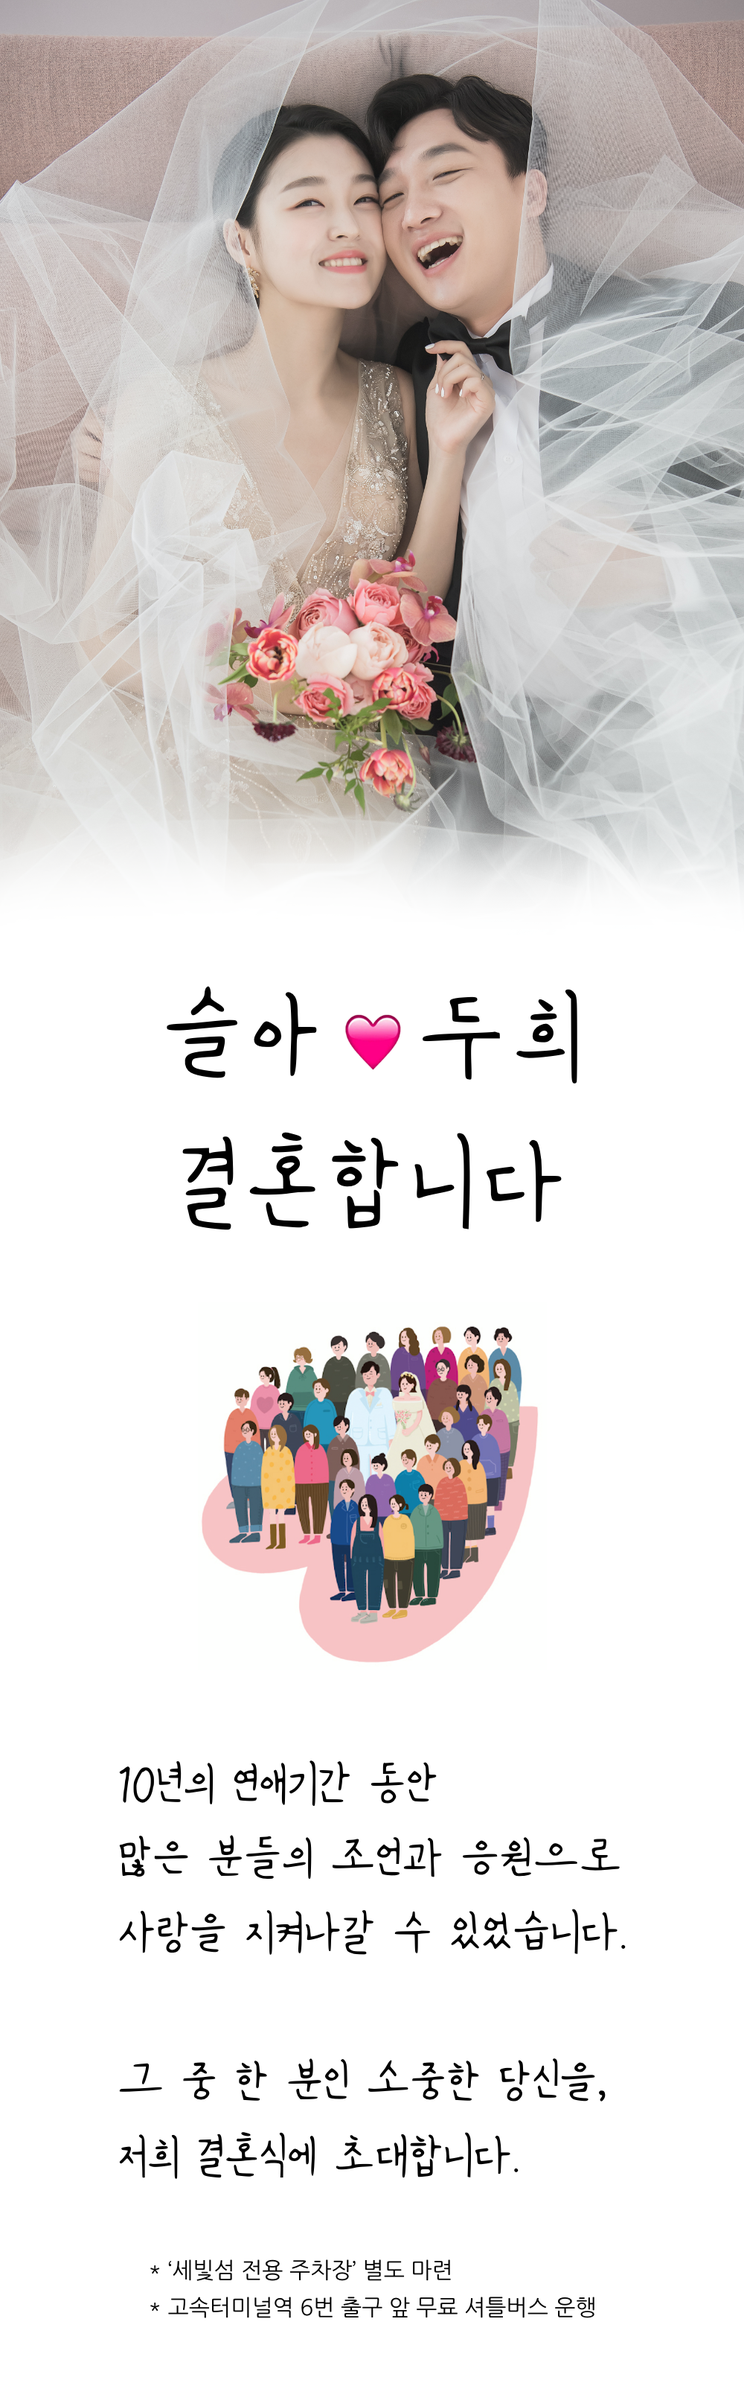
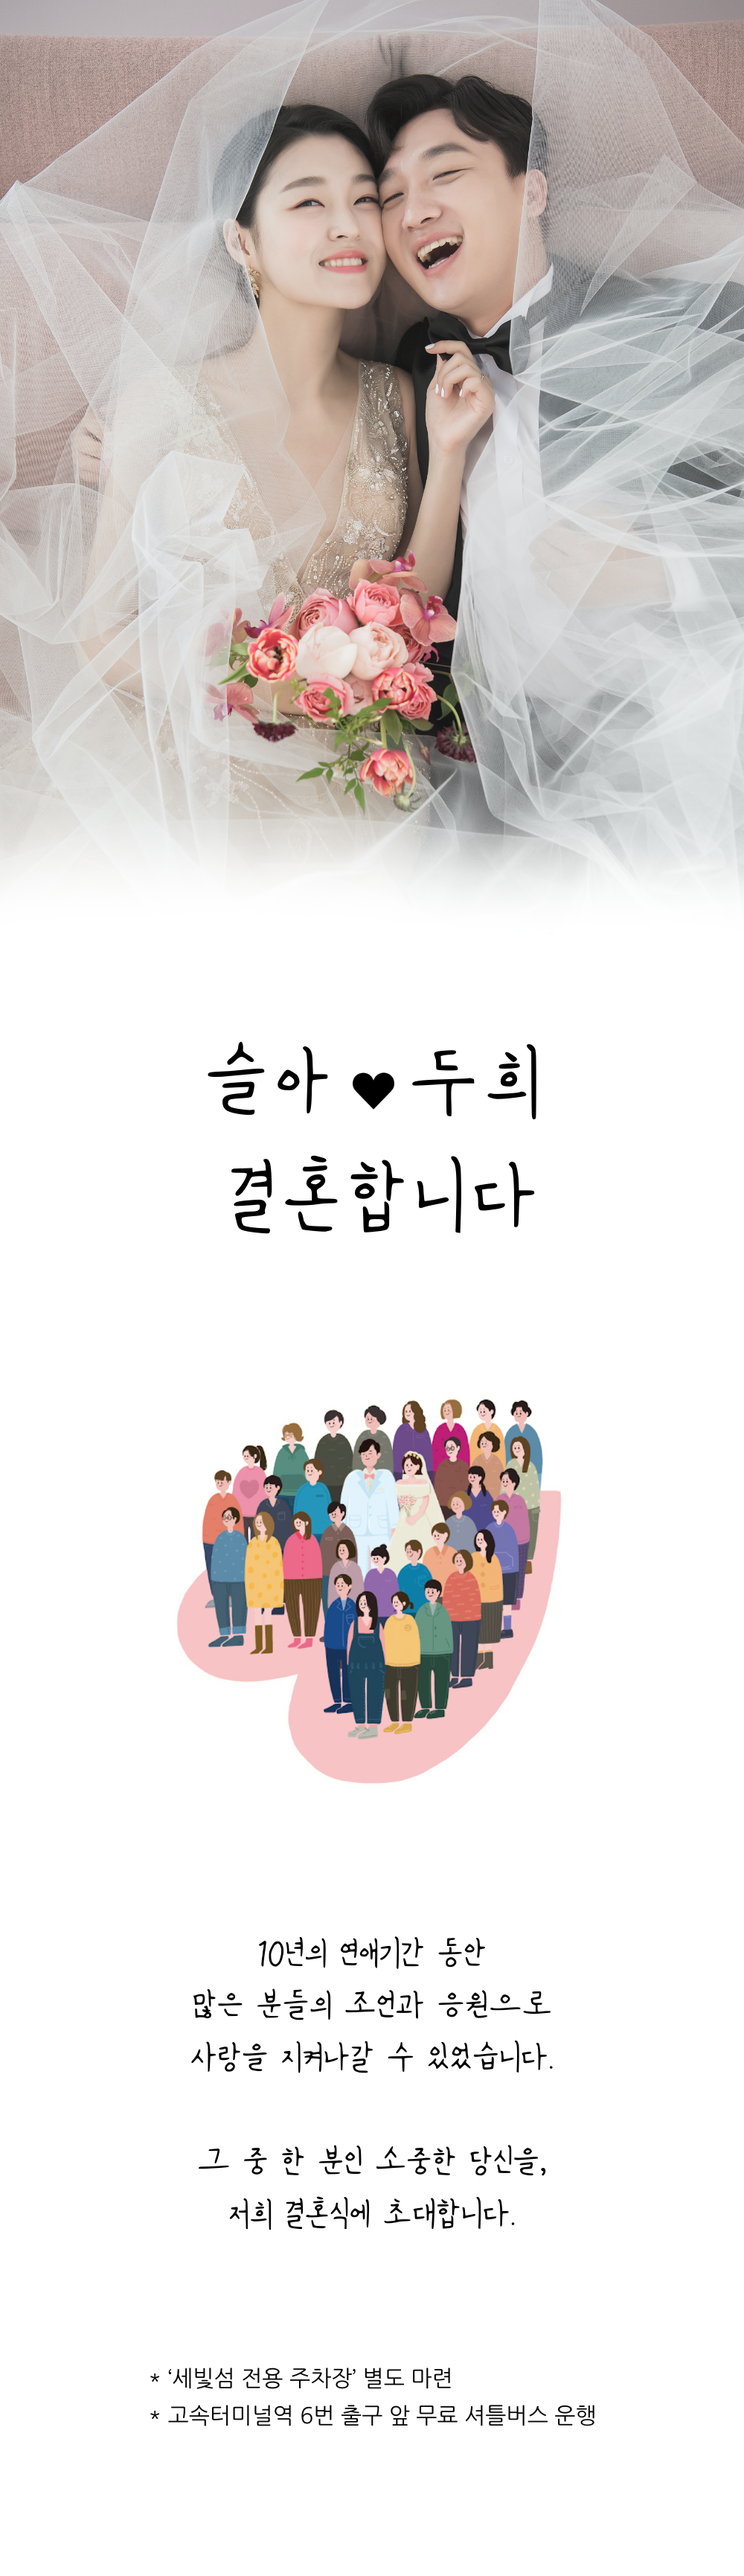
add map, kakaolink

diff --git a/index.html b/index.html
@@ -6,14 +6,14 @@
   <meta charset="utf-8">
   <meta name="viewport" content="width=device-width, initial-scale=1, shrink-to-fit=no">
   <meta name="description" content="2020년 9월 26일 - 세빛섬 플로팅 아일랜드">
-  <meta name="image" content="img/header-bg"/>
+  <meta name="image" content="img/kakaolink.jpg"/>
   <meta name="author" content="">
 
   <title>두희 ❤ 슬아</title>
 
   <meta property="og:title" content="두희♡슬아 결혼합니다">
   <meta property="og:description" content="2020년 9월 26일 - 세빛섬 플로팅 아일랜드">
-  <meta property="og:image" content="img/header-bg"/>
+  <meta property="og:image" content="img/kakaolink.jpg"/>
 
   <!-- Bootstrap core CSS -->
   <link href="vendor/bootstrap/css/bootstrap.min.css" rel="stylesheet">
@@ -208,6 +208,40 @@
             <p class="text-muted">2020</p>
           </div>
         </div>
+      </div>
+    </div>
+  </section>
+
+  <section class="page-section" id="portfolio">
+    <div class="container">
+      <div class="row">
+        <div class="col-lg-12 text-center">
+          <h2 class="section-heading text-uppercase">오시는 길</h2>
+          <h3 class="section-subheading text-muted"></h3>
+        </div>
+      </div>
+      <div class="containerDoo">
+        <img class="img-fluid" src="img/map.png" alt="">
+      </div>
+      <div class="paddingDoo">
+        <p><br><b>자가용 </b><br>
+          - 반포대교가 아닌 꼭 잠수교를 이용하셔야 진입이 가능합니다.<br>
+          - '세빛섬 전용 주차장'이 별도 마련되어 있습니다.<br>
+          <br>
+
+          <b>버  스</b> <br>
+          - 반포대교남단 하차 (반포한강시민공원 입구) 143, 401, 406<br>
+          - 반포한강공원 하차 (잠수교 세빛섬 입구) 405, 740<br>
+          <br>
+
+          <b>지하철</b><br>
+          - 3/7/9호선 고속터미널역 6번 출구 앞 무료 셔틀버스 운행<br>
+          - 도보 이동 시 15분 소요<br>
+          <br>
+
+          <b>서울시 서초구 올림픽대로 2085-14 (반포동 650번지) <br>
+          T 02) 537-2440<br></b>
+        </p>
       </div>
     </div>
   </section>
@@ -494,18 +528,17 @@
   </section> -->
 
   <!-- Footer -->
-  <footer class="footer">
+  <footer class="bg-light footer">
     <div class="container">
       <div class="row align-items-center">
         <div class="col-md-4">
-          <span class="copyright">Copyright &copy; Your Website 2019</span>
+          <span class="copyright"><b>카카오톡으로 청첩장 공유</b></span>
         </div>
 
         <div class="container">
-          <div class="row">
+          <div class="row" style="display:block; margin:auto;">
               <a id="kakao-link-btn" href="javascript:;">
-                  <img src="//developers.kakao.com/assets/img/about/logos/kakaolink/kakaolink_btn_medium.png" style="width: 5%; height: auto;"/>
-                  <h4>카카오톡으로 전송</h4>
+                  <img src="//developers.kakao.com/assets/img/about/logos/kakaolink/kakaolink_btn_medium.png" style="width: 8%; height: auto;"/>
               </a>
               <script type='text/javascript'>
                   //<![CDATA[
@@ -520,7 +553,7 @@
                       content: {
                       title: '슬아 ♥ 두희 결혼합니다.',
                       description: '2020년 9월 26일 세빛섬 플로팅 아일랜드',
-                      imageUrl: 'https://seula-s2-duhui.github.io/img/header-bg.jpg',
+                      imageUrl: 'https://seula-s2-duhui.github.io/img/kakaolink.jpg',
                       link: {
                           mobileWebUrl: 'https://seula-s2-duhui.github.io',
                           webUrl: 'https://seula-s2-duhui.github.io'

diff --git a/css/agency.css b/css/agency.css
@@ -563,6 +563,10 @@ header.masthead .intro-text .intro-heading {
   }
 }
 
+.paddingDoo {
+  padding: 20px;
+}
+
 .team-member {
   margin-bottom: 50px;
   text-align: center;
